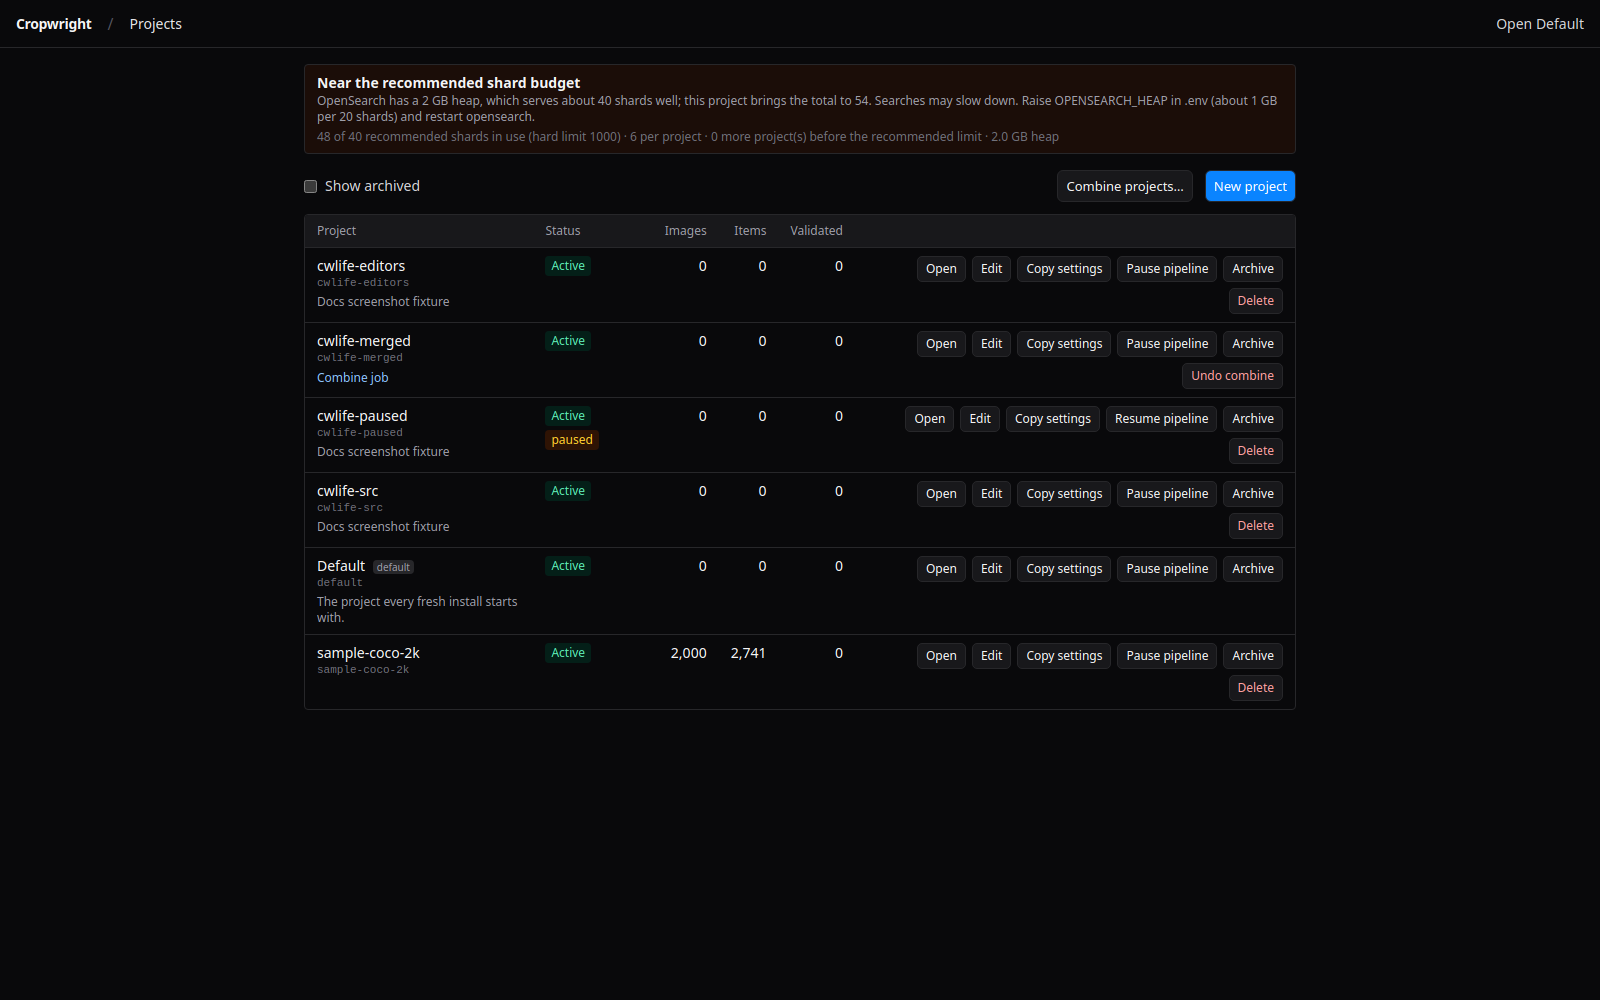
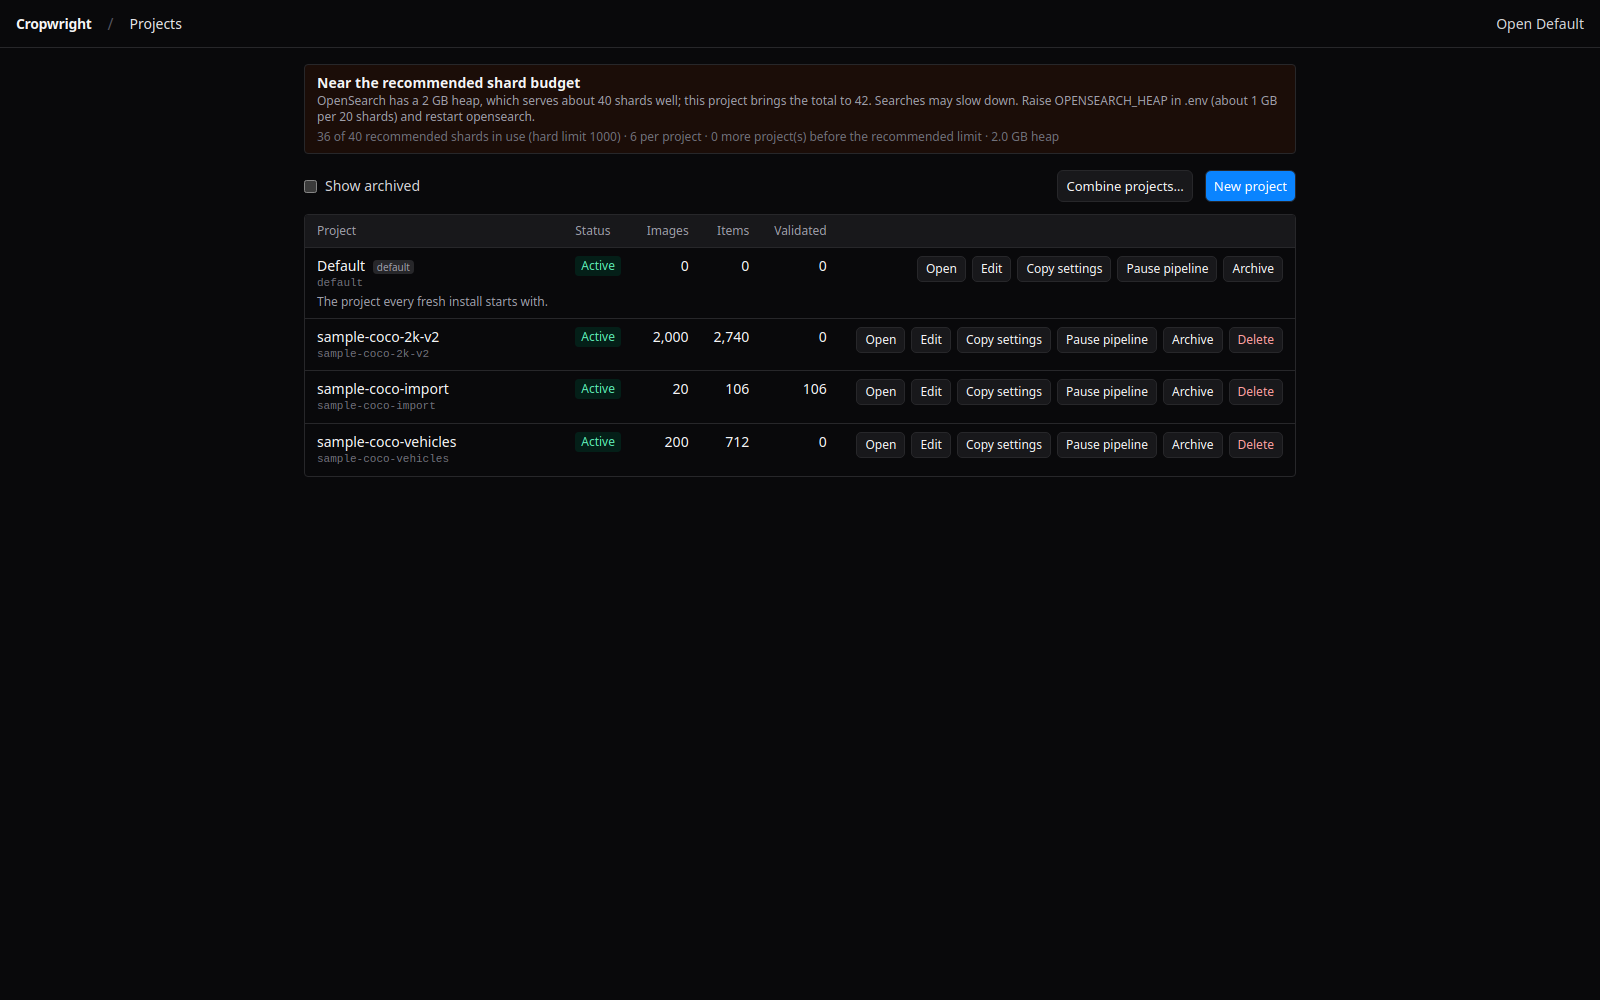
docs(screenshots): capture import, multi-box, box editor and profile-test slots

diff --git a/frontend/scripts/capture_docs_screenshots.py b/frontend/scripts/capture_docs_screenshots.py
@@ -65,7 +65,7 @@ OUT_DIR = REPO_ROOT / "docs-site" / "static" / "img" / "screenshots"
 WIDTHS = (1600, 800)
 VIEWPORT_HEIGHT = 1000
 # States whose page scrolls inside the app shell need a taller viewport to show it all.
-STATE_HEIGHT = {"prompt-pack-editor": 1500, "prompt-pack-test": 1500, "region-profile-editor": 2300}
+STATE_HEIGHT = {"region-profile-test": 1600, "import-wizard": 2250, "import-job": 1500, "prompt-pack-editor": 1500, "prompt-pack-test": 1500, "region-profile-editor": 2300}
 
 
 def load_routes() -> list[dict]:
@@ -101,6 +101,18 @@ READ_ONLY_CALLS: list[tuple[str, re.Pattern[str], str, object]] = [
         None,
     ),
     ("POST", re.compile(r"/region_profiles/validate$"), "region-profile validation report", None),
+    (
+        "POST",
+        re.compile(r"/region_profiles/test$"),
+        "region-profile 'Test on a crop' (runs the detector/segmenter on stored crops, writes nothing)",
+        None,
+    ),
+    (
+        "POST",
+        re.compile(r"/datasets/preview$"),
+        "import wizard preview (dry run: 'writes nothing', dataset problems come back as issues)",
+        None,
+    ),
     ("POST", re.compile(r"/keymap/validate$"), "keymap validation report", None),
     ("POST", re.compile(r"/vlm/endpoints/validate$"), "VLM endpoint validation report", None),
 ]
@@ -292,6 +304,105 @@ def state_vlm_endpoint_editor(page, ctx: Ctx) -> None:
     _settle(page)
 
 
+# Fixed public-sample projects the newer states read from (override via env).
+VEHICLES_PROJECT = os.environ.get("VEHICLES_PROJECT", "sample-coco-vehicles")
+IMPORT_PROJECT = os.environ.get("IMPORT_PROJECT", "sample-coco-import")
+
+
+def _multibox_crop_id(base: str) -> str:
+    """A wheel item whose boxes are in different states (accepted + rejected)."""
+    d = api_get(base, f"/curation/projects/{VEHICLES_PROJECT}/review/regions?page_size=60")
+    best = None
+    for it in d["items"]:
+        states = {b.get("state") for b in it["region_boxes"]}
+        if len(it["region_boxes"]) >= 3 and {"accepted", "rejected"} <= states:
+            return it["id"]
+        if best is None and len(it["region_boxes"]) >= 3:
+            best = it["id"]
+    if best is None:
+        raise RuntimeError("no multi-box item found")
+    return best
+
+
+def _open_multibox_review(page, ctx: Ctx) -> None:
+    cid = _multibox_crop_id(ctx.base)
+    page.goto(
+        f"{ctx.base}/p/{VEHICLES_PROJECT}/review?tab=regions&crop_id={cid}",
+        wait_until="domcontentloaded",
+        timeout=30_000,
+    )
+    page.wait_for_selector("text=/\\d+ \\/ \\d+ max/", timeout=20_000)
+    _settle(page, 2500)
+
+
+def state_review_regions_multibox(page, ctx: Ctx) -> None:
+    _open_multibox_review(page, ctx)
+
+
+def state_box_editor(page, ctx: Ctx) -> None:
+    _open_multibox_review(page, ctx)
+    page.get_by_role("button", name="Edit boxes").click()  # opens edit mode; nothing is saved
+    page.wait_for_selector("[data-testid='multibox-canvas']", timeout=10_000)
+    page.keyboard.press("Tab")  # select a box
+    _settle(page, 800)
+
+
+def state_region_profile_test(page, ctx: Ctx) -> None:
+    ids = [
+        api_get(ctx.base, f"/curation/projects/{VEHICLES_PROJECT}/review/regions?page_size=1")[
+            "items"
+        ][0]["id"]
+    ]  # the profile test takes exactly one crop id
+    page.goto(
+        f"{ctx.base}/p/{VEHICLES_PROJECT}/settings/region-profiles/coco_vehicle_wheels",
+        wait_until="domcontentloaded",
+        timeout=30_000,
+    )
+    page.wait_for_selector("[data-testid='profile-test-panel']", timeout=15_000)
+    page.locator("[data-testid='profile-test-crop-id']").fill(", ".join(ids))
+    page.locator("[data-testid='test-run']").click()
+    page.wait_for_selector("[data-testid='test-result'], [data-testid='test-error']", timeout=180_000)
+    if page.locator("[data-testid='test-error']").count():
+        raise RuntimeError(page.locator("[data-testid='test-error']").inner_text())
+    page.locator("[data-testid='profile-test-panel']").scroll_into_view_if_needed()
+    _settle(page, 800)
+
+
+def state_import_wizard(page, ctx: Ctx) -> None:
+    path = os.environ["IMPORT_PREVIEW_PATH"]  # a server path under an allowed root
+    page.goto(
+        f"{ctx.base}/p/{IMPORT_PROJECT}/datasets/import", wait_until="domcontentloaded", timeout=30_000
+    )
+    page.get_by_placeholder("/data/source/my_dataset").fill(path)
+    page.wait_for_selector("text=Class mapping", timeout=60_000)
+    page.get_by_label("Accept suggestions").check()  # client-side choice only
+    _settle(page, 1500)
+
+
+def state_import_job(page, ctx: Ctx) -> None:
+    jobs = api_get(ctx.base, f"/curation/projects/{IMPORT_PROJECT}/datasets/imports")["items"]
+    jid = next(j["import_id"] for j in jobs if j["status"].startswith("completed"))
+    page.goto(
+        f"{ctx.base}/p/{IMPORT_PROJECT}/datasets/imports/{jid}",
+        wait_until="domcontentloaded",
+        timeout=30_000,
+    )
+    page.wait_for_selector("[data-testid='import-job']", timeout=15_000)
+    _settle(page, 1200)
+
+
+def state_review_imported(page, ctx: Ctx) -> None:
+    jobs = api_get(ctx.base, f"/curation/projects/{IMPORT_PROJECT}/datasets/imports")["items"]
+    jid = next(j["import_id"] for j in jobs if j["status"].startswith("completed"))
+    page.goto(
+        f"{ctx.base}/p/{IMPORT_PROJECT}/review?tab=imported&import_id={jid}",
+        wait_until="domcontentloaded",
+        timeout=30_000,
+    )
+    page.wait_for_selector("text=/Import imp_/", timeout=20_000)
+    _settle(page, 2500)
+
+
 # name -> function; every state is captured at 1600px only.
 STATES = {
     "projects-delete-dry-run": state_projects_delete_dry_run,
@@ -303,6 +414,12 @@ STATES = {
     "prompt-pack-test": state_prompt_pack_test,
     "region-profile-editor": state_region_profile_editor,
     "vlm-endpoint-editor": state_vlm_endpoint_editor,
+    "review-regions-multibox": state_review_regions_multibox,
+    "box-editor": state_box_editor,
+    "region-profile-test": state_region_profile_test,
+    "import-wizard": state_import_wizard,
+    "import-job": state_import_job,
+    "review-imported": state_review_imported,
 }
 
 

diff --git a/frontend/docs-site/docs/developer-guide/screenshots.md b/frontend/docs-site/docs/developer-guide/screenshots.md
@@ -99,7 +99,7 @@ paths, unexpected text), then commit them under
 
 ## Slots for the project, import, configuration and VLM pages
 
-Captured slots have their image; the slots still listed under "Still pending" below
+The import, multi-box and region-profile-test slots come from the `sample-coco-import` and `sample-coco-vehicles` projects (`IMPORT_PREVIEW_PATH` names a server path under an allowed source root, e.g. the project's uploaded archive). The region-profile test reads "not eligible" because the sample items carry no vehicle parent class; the candidates are still drawn. Captured slots have their image; the slots still listed under "Still pending" below
 render as "pending". Capture them against a backend holding public sample
 data (never from a real deployment). Rows marked **route** are in
 `screenshot_routes.json` and the script captures them as-is. Rows marked
@@ -114,10 +114,10 @@ a manual capture or a small extension that drives the clicks read-only.
 | `projects-copy-settings` | `/projects` | state | Copy settings dialog with the cloneable groups |
 | `combine-wizard` | `/projects/combine` | route | Ordered sources, class mapping, preview |
 | `combine-job` | `/projects/combine/<job>` | state | A running or completed job with next steps |
-| `import-wizard` | `/datasets/import` | route | A previewed import with the class-mapping table |
+| `import-wizard` | `/datasets/import` | state | A previewed import with the class-mapping table |
 | `import-job` | `/datasets/imports/<id>` | state | A job with progress, report and the Undo dry run |
 | `reprocess-dialog` | an item's Details | state | Scopes and the locked-and-skipped counts |
-| `review-imported` | `/review?tab=imported` | route | Imported tab with an import chip |
+| `review-imported` | `/review?tab=imported&import_id=<id>` | state | Imported tab with an import chip |
 | `review-regions-multibox` | `/review?tab=regions` | state | One item with several boxes in different states |
 | `box-editor` | `/review?tab=regions` (edit mode) | state | A selected box, Add box and the "N / max" counter |
 | `prompt-pack-editor` | `/settings/prompt-packs/<name>` | state | Grouped fields with a validation issue |
@@ -140,9 +140,6 @@ paths must be sample-data values.
 
 | Slot | Why |
 | --- | --- |
-| `import-wizard`, `import-job`, `review-imported` | the backend has no labeled dataset layout on a server path and no import has run, so there is no preview, job or Imported tab to show |
-| `review-regions-multibox`, `box-editor` | the sample project's region profile is off, so there is no region tab or multi-box item |
-| `region-profile-test` | needs a crop in a project with an active region profile |
 | `vlm-run-picker` | the acknowledgement only shows for an endpoint outside the deployment; only the built-in in-stack endpoint exists |
 | `models-sharing`, `models-unshare-force` | need a model another project has shared |
 

diff --git a/frontend/CHANGELOG.md b/frontend/CHANGELOG.md
@@ -6,6 +6,10 @@ The format is based on [Keep a Changelog](https://keepachangelog.com/en/1.1.0/).
 
 ## [Unreleased]
 
+### Changed
+
+- Docs screenshots: the capture script gained import, multi-box review, box editor, region-profile test and Imported-tab states (read-only allow-list extended for `/region_profiles/test` and `/datasets/preview`); the matching docs slots now render real captures.
+
 ### Fixed
 
 - `/review`'s served enum filters (e.g. "Negative frames") no longer render a
